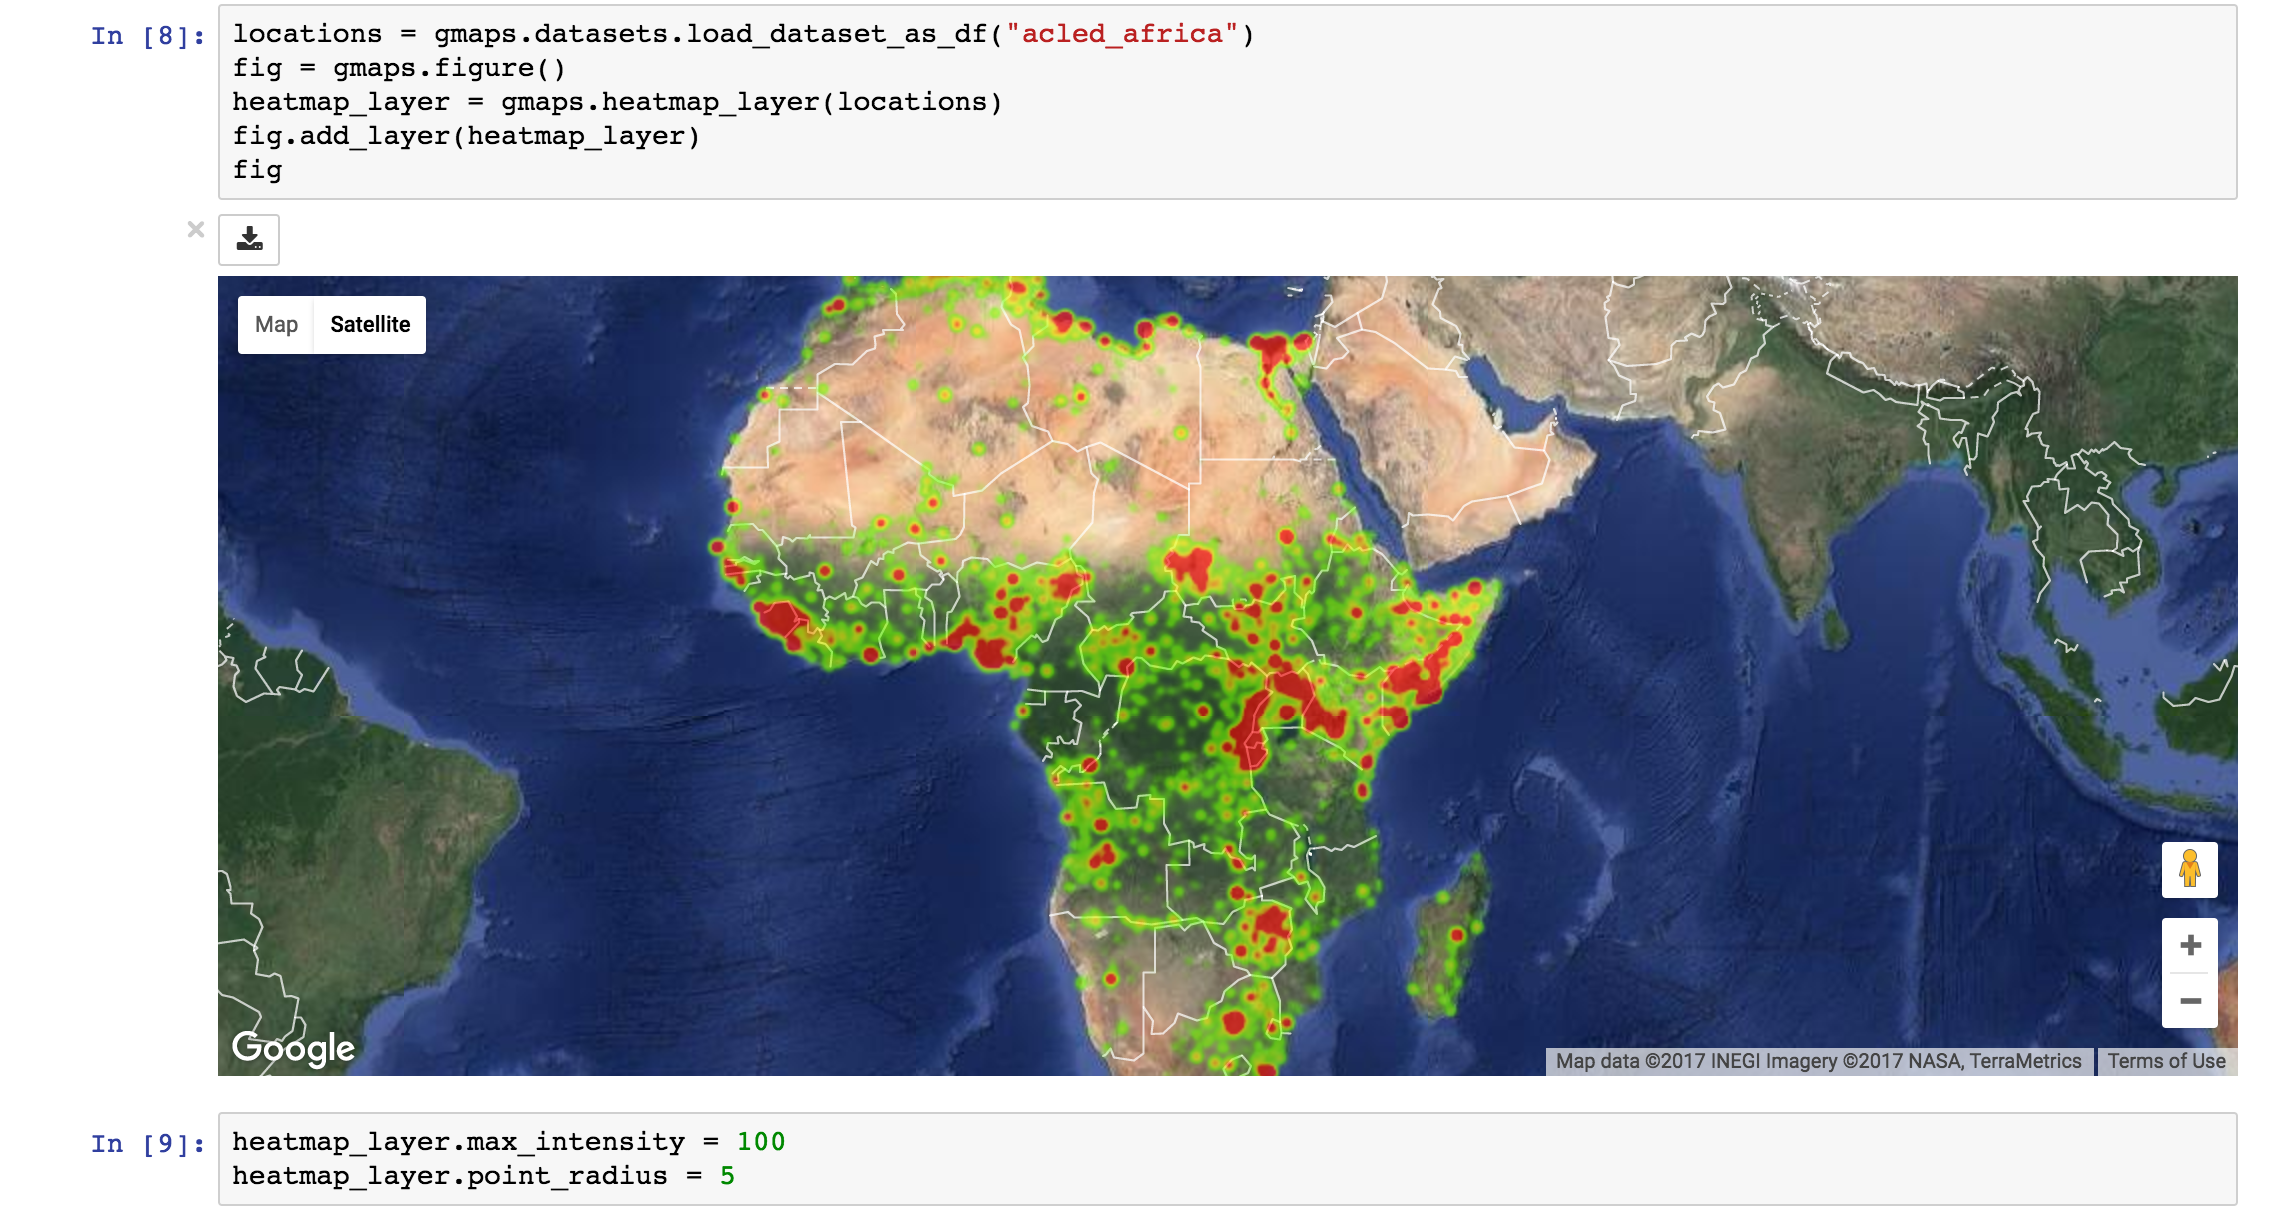
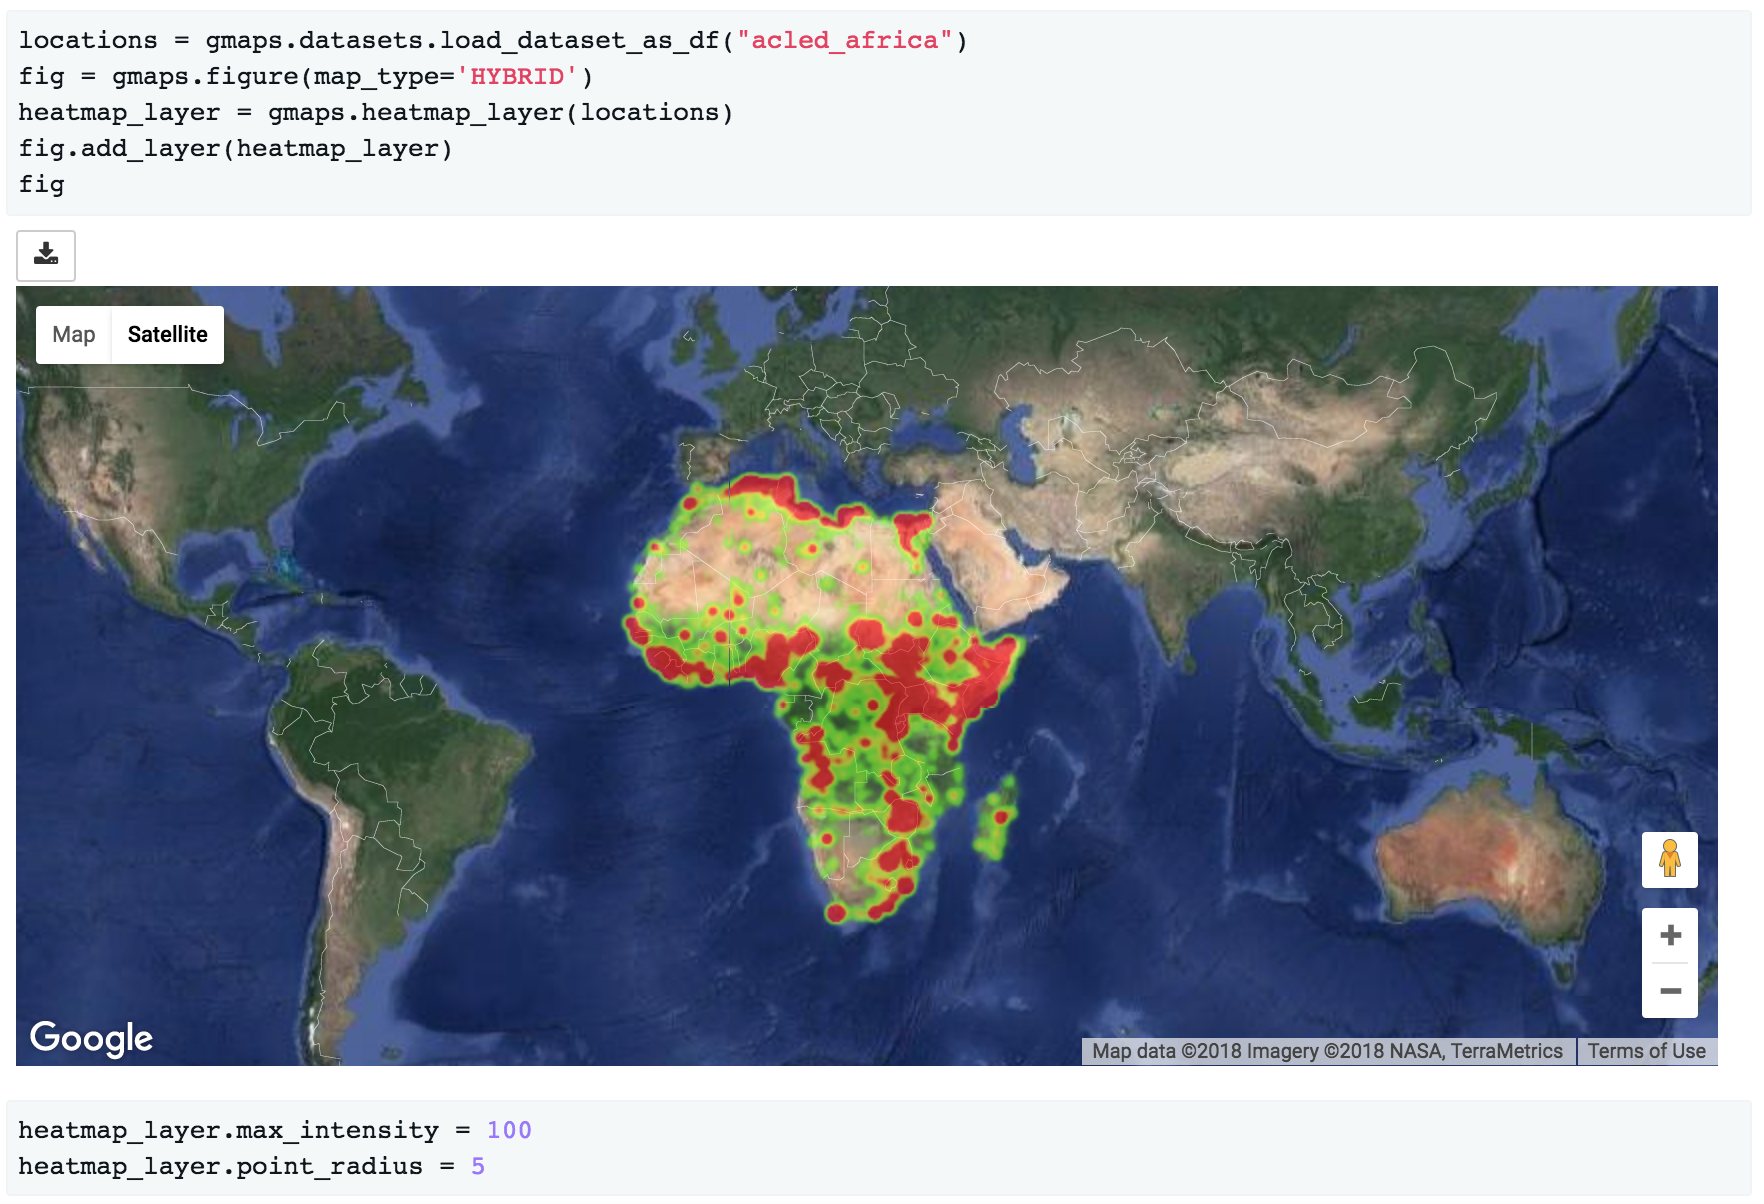
Update tutorial to specify map type

diff --git a/docs/source/tutorial.rst b/docs/source/tutorial.rst
@@ -103,7 +103,7 @@ by setting the ``map_type`` parameter::
 
 .. image:: _images/map_type2.png
 
-Choose one of four map types:
+There are four map types available:
 
  - ``'ROADMAP'`` is the default Google Maps style,
  - ``'SATELLITE'`` is a simple satellite view,
@@ -182,7 +182,7 @@ We already know how to build a heatmap layer::
   gmaps.configure(api_key="AI...")
 
   locations = gmaps.datasets.load_dataset_as_df("acled_africa")
-  fig = gmaps.figure()
+  fig = gmaps.figure(map_type='HYBRID')
   heatmap_layer = gmaps.heatmap_layer(locations)
   fig.add_layer(heatmap_layer)
   fig
